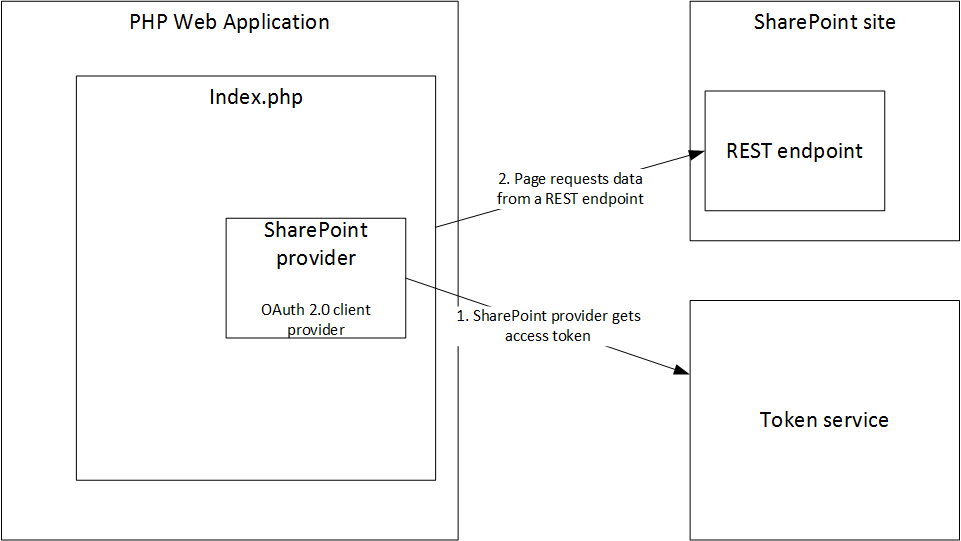
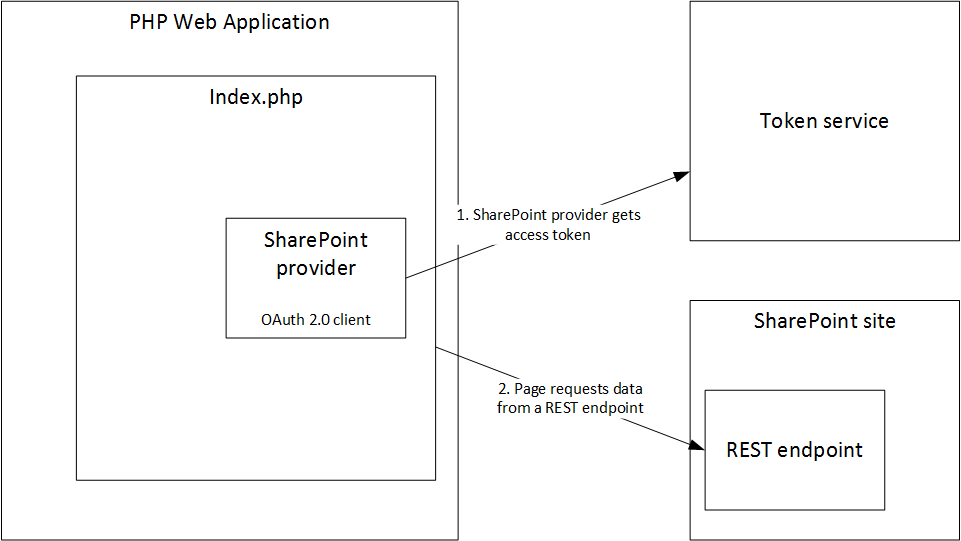
Updated readme and diagram to address feedback from tester

diff --git a/README.md b/README.md
@@ -1,6 +1,6 @@
 # PHP App for SharePoint sample
 
-**Table of Content**
+**Table of Contents**
 - [Overview](#overview)
 - [Prerequisites](#prerequisites)
 - [Configure the sample](#configure-the-sample)
@@ -52,9 +52,10 @@ Composer downloads the dependencies required by the project.
 
 The sample is configured to use a web application that resolves to **PHPAppWeb**. To make it easier to configure your app we recommend that you use PHPAppWeb as your web application name. Follow this procedure to create the web application:
 
-1. Clone or download the git repository to your web server.
-2. Create a web application on your web server with a name of PHPAppWeb.
-3. Point the web application to the **PHP** folder included in the sample.
+1. Create a web application on your web server with a name of PHPAppWeb.
+2. Map the web application physical path to the **PHP** folder included in the sample.
+
+**Note**: The web application must be configured to use SSL.
 
 ### Register your app in SharePoint
 
@@ -67,7 +68,7 @@ Since you're not installing the app from the [Office Store](http://office.micros
 	- Title - PHP App for SharePoint
 	- App Domain - localhost
 	- Redirect URI - https://localhost/phpappweb/index.php
-3. Copy the Client Id, and Client Secret values and store for future reference. You'll need them to update the configuration and app manifest files.
+3. Copy the values and store for future reference. You'll need them to update the configuration and app manifest files.
 4. Click Create.
 
 ### Update the configuration file
@@ -87,9 +88,10 @@ The sample requires the client_id, and client_secret values from the app registr
 
 The AppTemplate.app file is an app package that contains the app manifest file. You have to update the app manifest file with the client_id value obtained in the **Register your app in SharePoint** task. Follow this procedure to update the app manifest file:
 
-1. Rename the **AppPackage.app** file provided in this sample to **AppPackage.zip**
-2. Open the zip file and extract the **AppManifest.xml** file.
-3. Find the placeholder text *<your client_id value>* and replace with the Client Id value from the app registration page.
+1. Go to the root folder of the sample.
+2. Rename the **AppPackage.app** file provided in this sample to **AppPackage.zip**
+3. Open the zip file and extract the **AppManifest.xml** file.
+4. Edit the AppManfest. xml file. Replace *<your client_id value>* with the Client Id value from the app registration page.
 
 	```
 	<AppPrincipal>
@@ -99,13 +101,15 @@ The AppTemplate.app file is an app package that contains the app manifest file. 
 4. Replace the AppManifest.xml file in the zip file.
 5. Rename the AppPackage.zip file back to AppPackage.app
 
+**Note**: The updated AppPackage.app file must keep the same file structure as the original. Moving files or folders can invalidate your package.
+
 ### Deploy the app to the SharePoint site
 
 You can deploy the app using the app catalog that lets administrators deploy business apps to SharePoint sites in the tenant.
 
 1. If you don't have an app catalog site in your tenant, create one. For more information, see [Create an App Catalog site](http://office.microsoft.com/en-us/sharepoint-help/use-the-app-catalog-to-make-custom-business-apps-available-for-your-sharepoint-online-environment-HA102772362.aspx#_Toc347303048).
 2. Add the AppTemplate.app file to the app catalog. For more information, see [Add custom apps to the App Catalog site](http://office.microsoft.com/en-us/sharepoint-help/use-the-app-catalog-to-make-custom-business-apps-available-for-your-sharepoint-online-environment-HA102772362.aspx#_Toc347303049).
-3. Go to your SharePoint site. From the Settings menu (the gear in the top right corner of the page) choose **Add an app**.
+3. Go to the SharePoint site where you want to deploy the app. From the Settings menu (the gear in the top right corner of the page) choose **Add an app**.
 4. Choose the PHP App for SharePoint app. In the consent page, choose **Trust It**.
 
 ## Run the sample
@@ -116,11 +120,10 @@ To run the sample, simply click on the **PHP App for SharePoint** app in the Sha
 
 The sample includes the following components that help you configure and test the app in your environment.  
 
-### SharePoint provider class
-This is a PHP class that implements the **AbstractProvider** class in the OAuth 2.0 client  
-exposes a function to get a token that you can use to issue authenticated requests.
+### SharePoint.php
+This is a PHP class that inherits from the **AbstractProvider** class. The AbstractProvider class exposes a function to get a token that you can use to issue authorized requests.
  
-The class initializes the values required to get the access token. Requires the client id, client secret, SharePoint site URL, and a context token. It extracts and formats the following values from the context token:
+The class initializes the values required to get the access token. The constructir requires the client id, client secret, SharePoint site URL, and a context token as parameters. The constructor extracts and formats the following values from the context token:
 
 - Refresh token
 - Token service URI
@@ -133,7 +136,7 @@ After creating a SharePoint provider object, PHP pages can call the **getAccessT
 
 - Checks that the request is using the POST method. If the request is using GET instead it tells the user to start the app from the SharePoint site contents page.
 - Initializes a SharePoint provider instance.
-- Gets an access token using the getAccessToken function of the TokenHelper class.
+- Gets an access token using the getAccessToken function of the AbstractProvider class.
 - Issues an authenticated request to a REST endpoint exposed by the SharePoint site.
 - Prints the result to the browser.
 
